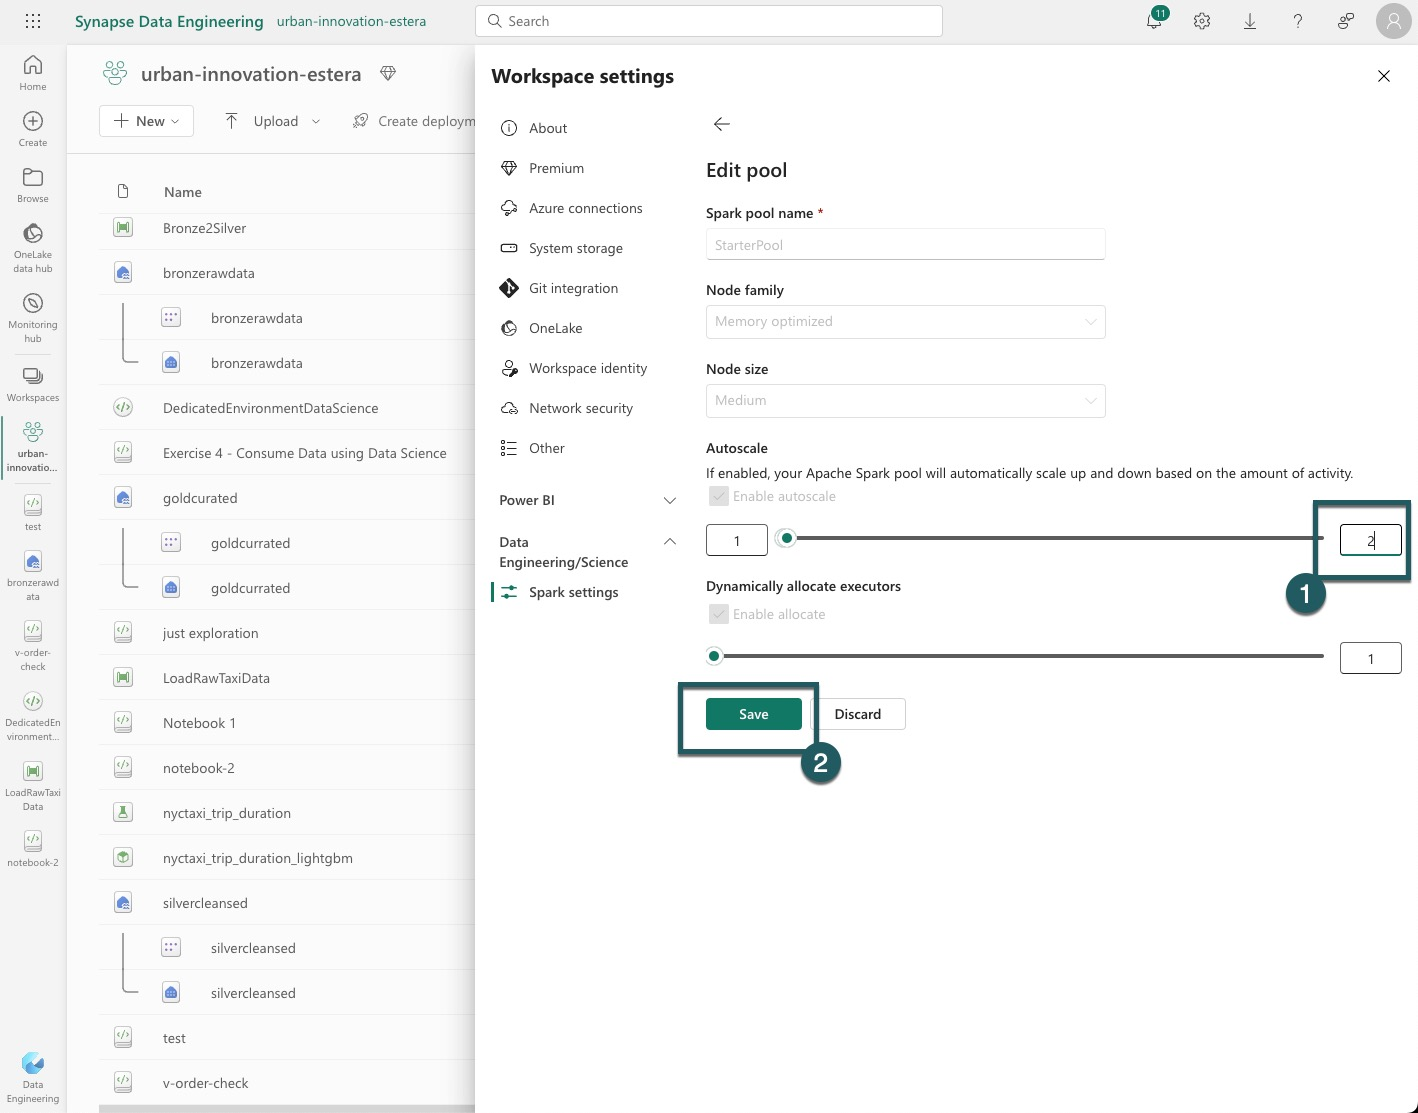
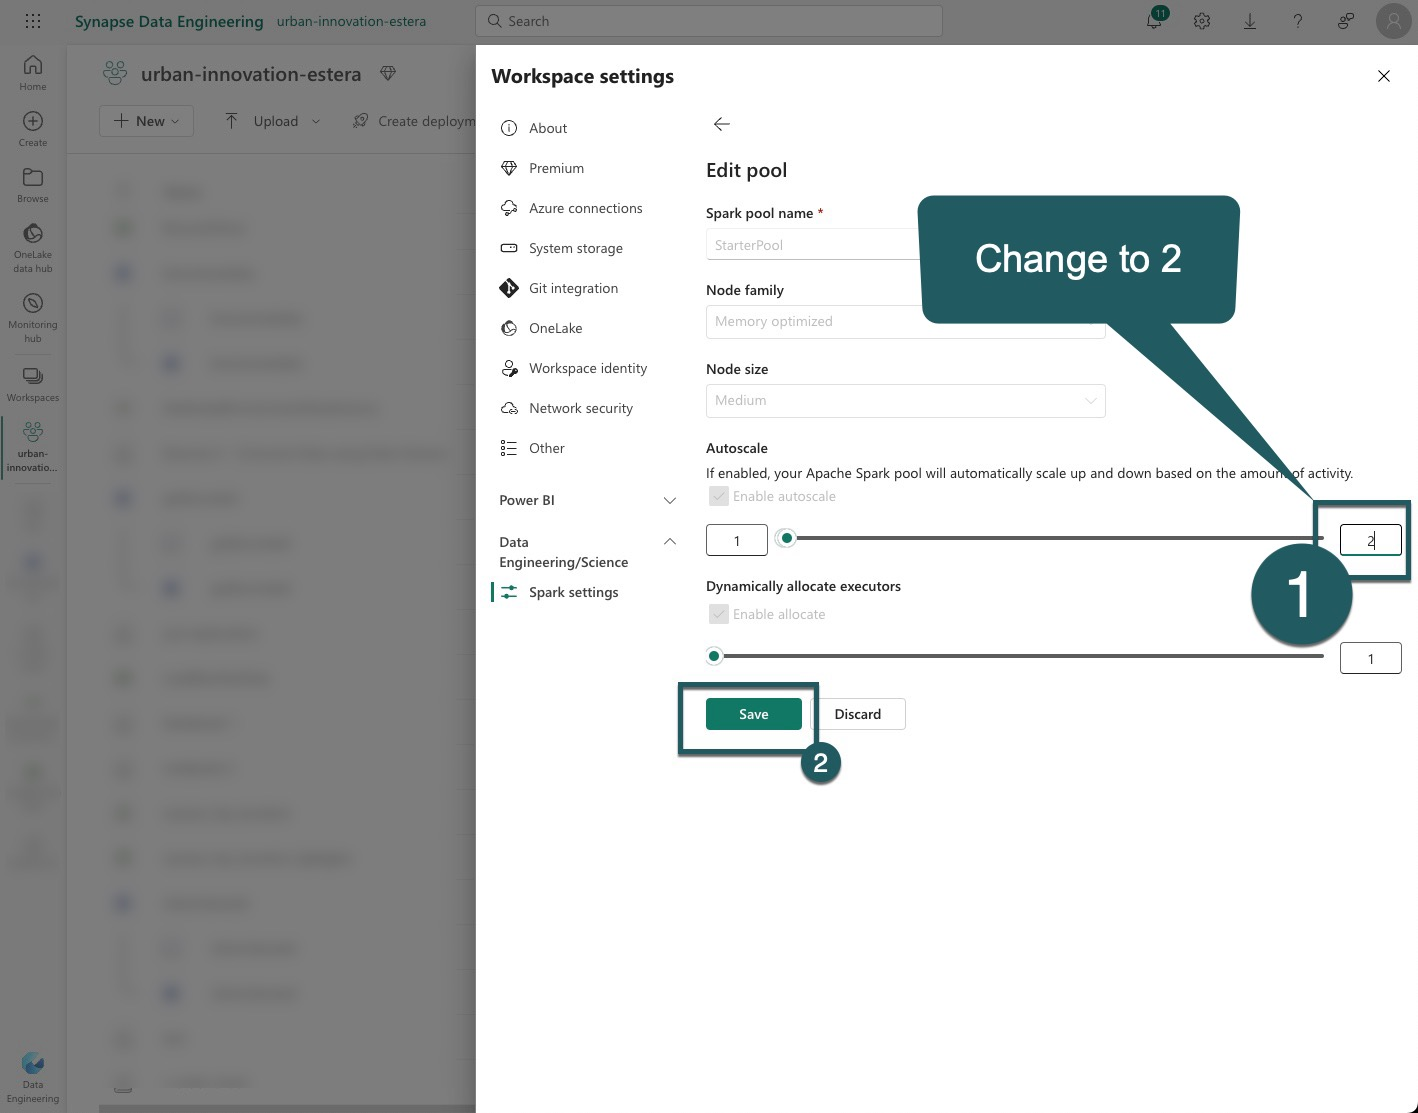
2 nodes

diff --git a/start/start.md b/start/start.md
@@ -62,10 +62,38 @@ Give your new workspace a name, adhering to the provided naming convention. Veri
 Congratulations, your new workspace has been successfully created! This dedicated space is for you to innovate and build today.
 ![Login](../media/start/15.jpg)
 
-## 15. Download the exercise files
+
+## 15. Adjust default pool size to 2 nodes
+
+To ensure smooth operation for multiple concurrent workshops happening today, you need to adjust the default configuration of the compute cluster in your Fabric workspace to scale down the maximum number of nodes to 2.
+
+1. **Navigate to Workspace Settings**:
+   - Confirm that you are within the correct workspace view.
+   - Access the workspace settings as indicated in the Fabric UI.
+
+![One Node](./../media/extra/onenode1.jpg)
+
+2. **Modify Default Pool Configuration**:
+   - Locate the "default pool for workspace" setting.
+   - Click on the pencil icon (marked as "1" in the provided screenshot) to edit the pool settings.
+
+![One Node](./../media/extra/onenode2.jpg)
+
+3. **Adjust Autoscale Settings and Save Changes**:
+   - In the default pool configuration, change the autoscale maximum setting from 10 to 2. This limits the maximum number of nodes to 2 to prevent resource over-allocation.
+   - Confirm and save your modifications to the default pool settings.
+
+![One Node](./../media/extra/onenode3.jpg)
+
+
+> [!NOTE]  
+>  This task is crucial for optimizing resource usage and ensuring that the workshops run smoothly for all participants. By reducing the maximum number of nodes to 2, you help manage the load on the system and improve the experience for everyone involved. Ensure that the changes are correctly applied and monitor the system for any impacts on performance or resource allocation.
+
+## 16. Download the exercise files
 Clone the [workshop GitHub repository](https://github.com/ekote/Build-Your-First-End-to-End-Lakehouse-Solution/tree/fabcon) or Download Zip of the repository to your local machine.
 
 ![Download Repo](../media/start/CloneDownloadRepo.png)
+
 
 ---
 

diff --git a/extra/extra.md b/extra/extra.md
@@ -24,15 +24,6 @@ Description TODO
 ![HC](./../media/extra/hc2.jpg)
 ![HC](./../media/extra/hc3.jpg)
 
-# One Node Cluster
-
-Description TODO
-
-![One Node](./../media/extra/onenode1.jpg)
-![One Node](./../media/extra/onenode2.jpg)
-![One Node](./../media/extra/onenode3.jpg)
-
-
 # Lineage
 
 Description TODO
@@ -247,6 +238,10 @@ In this exercise, you'll be addressing the lack of dynamic job execution capabil
    - After configuring the new Spark pool, Microsoft Fabric will redirect you back to the Spark settings screen.
    - A message will appear at the top part of the screen indicating that there are unsaved changes. Ensure to review and save these changes.
      ![Unsaved Changes](./../media/extra/17.jpg)
+
+
+> [!IMPORTANT]  
+> If you change the default pool from Starter Pool to a Custom Spark pool you may see longer session start (~3 minutes).
 
 6. **Verification**:
    - Verify that the new Spark pool is listed in your workspace settings.

diff --git a/exercise-5/exercise-5.md b/exercise-5/exercise-5.md
@@ -14,7 +14,6 @@
 > *  [VSCode (WEB)](#vscode-web-1)
 
 
-
 # Stay Updated and Bookmark Essentials
 Dive into the latest and greatest from Fabric
 * **Monthly Digests**: Don't miss out! Head over to the [Fabric Monthly Updates](https://blog.fabric.microsoft.com/en-us/blog/category/monthly-update) and catch up on the past three months' worth of updates. Discover the latest features and improvements rolled out each week, compiled neatly for your convenience. Bookmark this page to keep your knowledge fresh and up-to-date.
